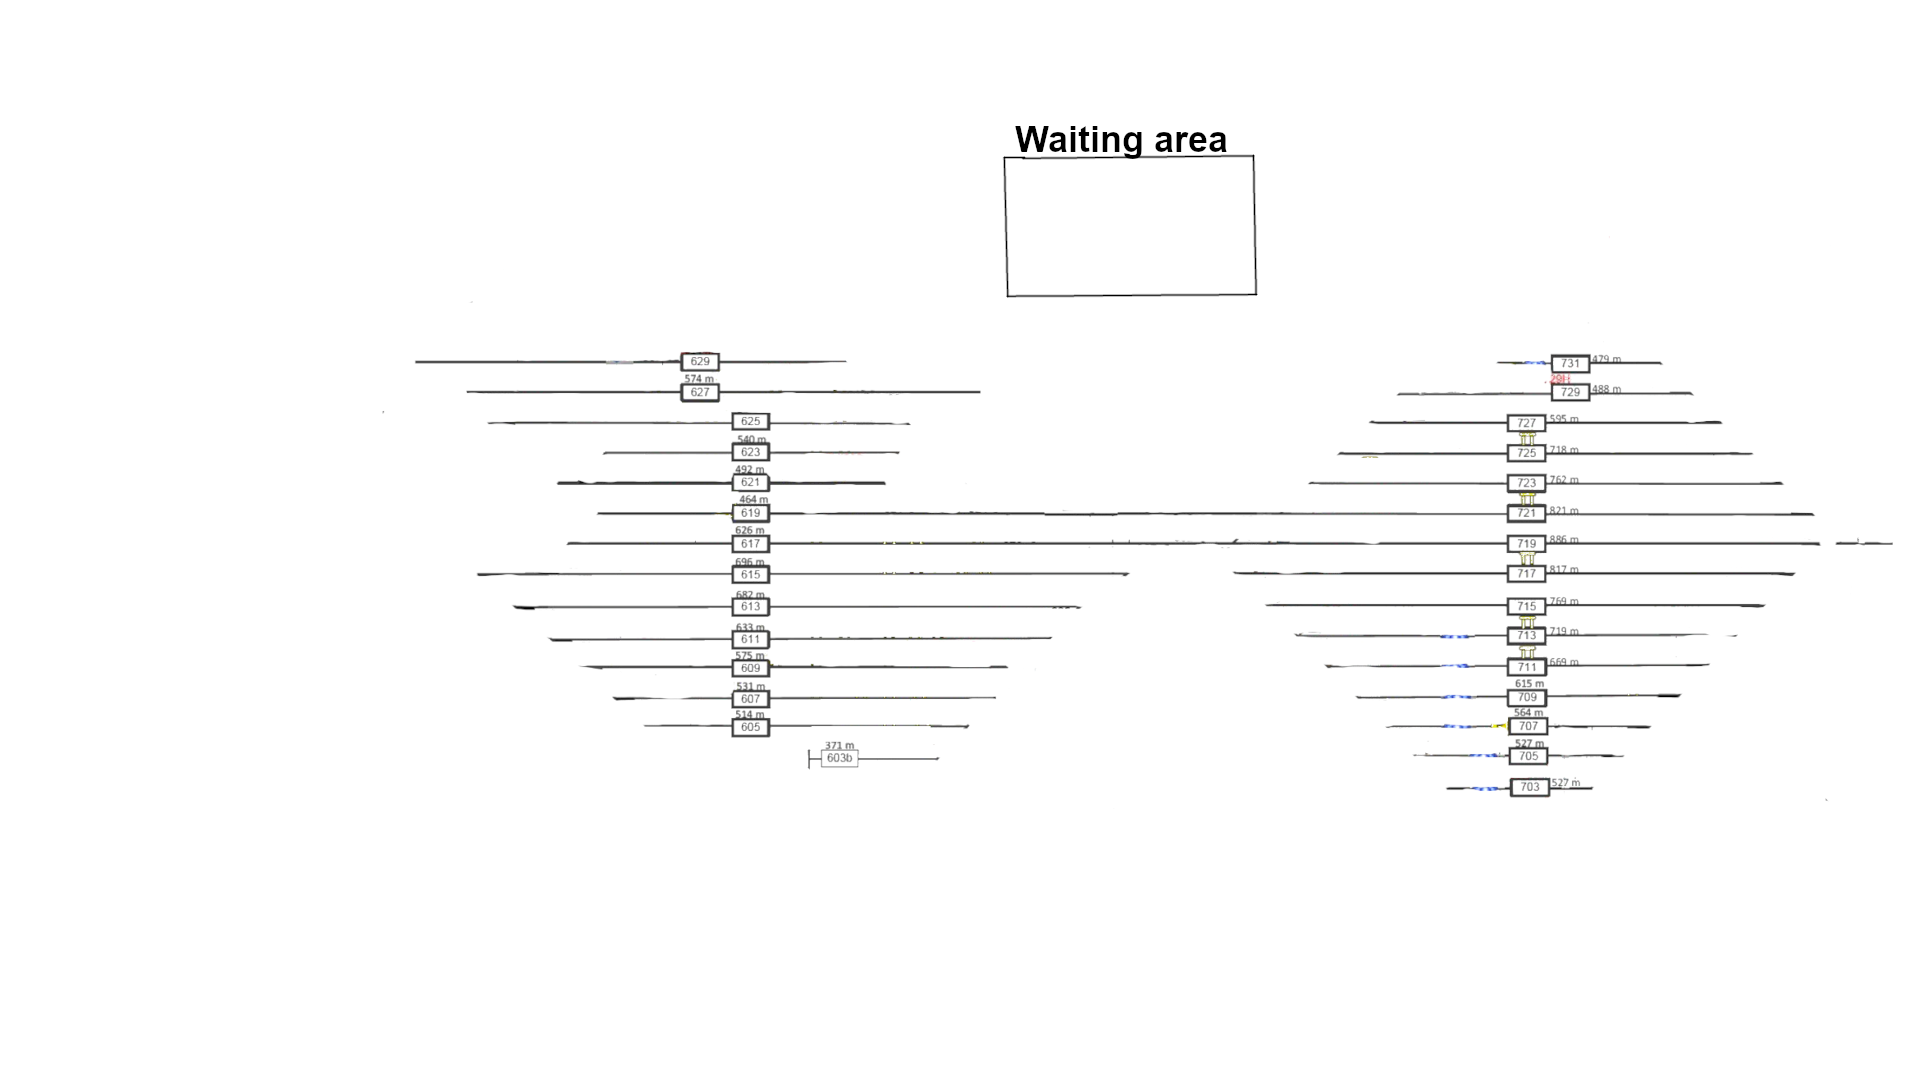
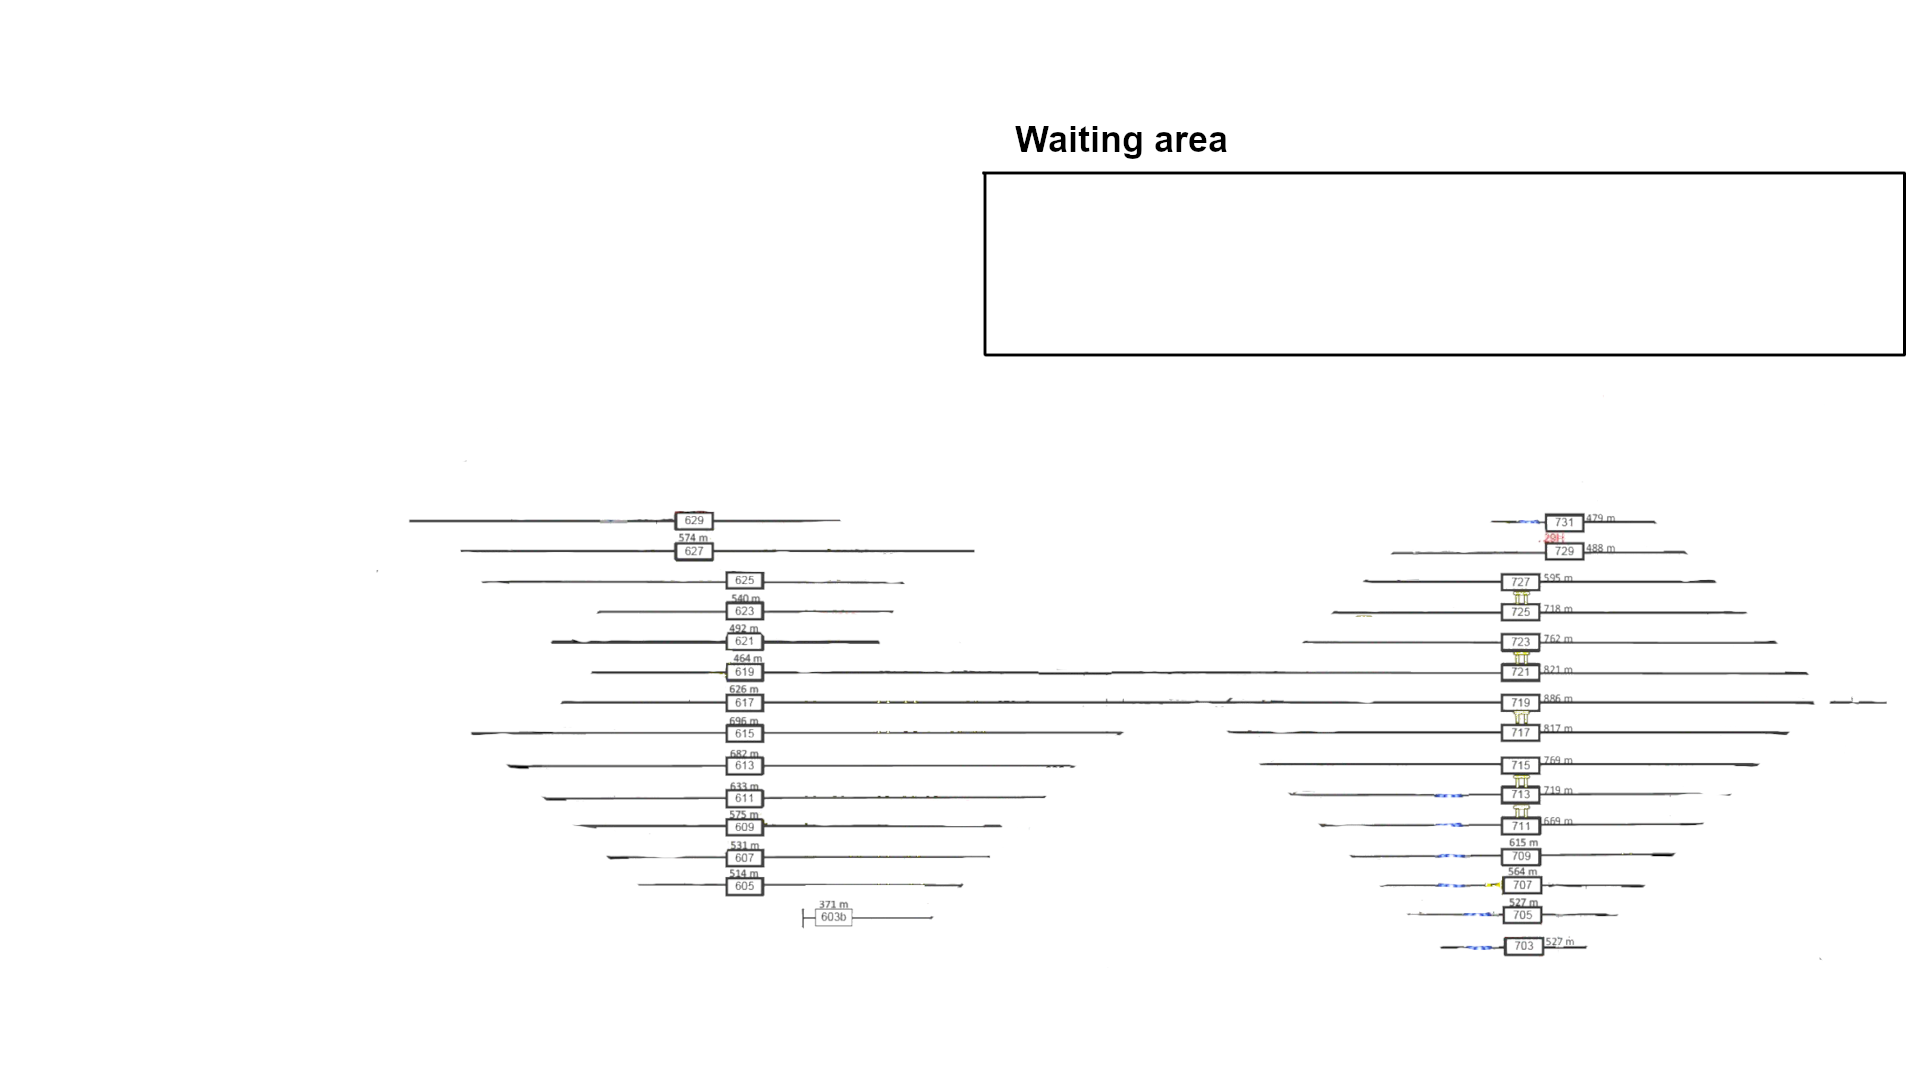
vis4

diff --git a/Output/SimulationVisualizer.html b/Output/SimulationVisualizer.html
@@ -142,6 +142,7 @@
             display: none;
             width: 100%;
             height: calc(100vh - 8px - 70px);
+            position: relative;
             background-image: url('vis_background_v1.png');
             background-size: cover;
             background-position: center;
@@ -150,6 +151,43 @@
 
             #main-content.visible {
                 display: block;
+            }
+
+        /* Worker Icons Overlay */
+        #worker-grid {
+            position: absolute;
+            top: 60px;
+            left: 1010px;
+            display: flex;
+            flex-wrap: wrap;
+            gap: 10px;
+            max-width: 400px;
+        }
+
+        .worker-icon {
+            display: flex;
+            flex-direction: column;
+            align-items: center;
+            gap: 4px;
+        }
+
+            .worker-icon img {
+                width: 40px;
+                height: 40px;
+                object-fit: contain;
+                filter: drop-shadow(1px 1px 2px rgba(0,0,0,0.5));
+            }
+
+            .worker-icon span {
+                font-size: 9px;
+                color: white;
+                text-shadow: 1px 1px 2px black;
+                font-weight: 600;
+                text-align: center;
+                max-width: 50px;
+                overflow: hidden;
+                text-overflow: ellipsis;
+                white-space: nowrap;
             }
     </style>
 </head>
@@ -177,8 +215,10 @@
         <div id="sim-time">09:00:00</div>
     </div>
 
-    <!-- Main Content: background image shown after CSV is loaded -->
-    <div id="main-content"></div>
+    <!-- Main Content: background image + worker icons overlay -->
+    <div id="main-content">
+        <div id="worker-grid"></div>
+    </div>
 
     <script>
         let events = [];
@@ -190,6 +230,7 @@
         let pausedSimTime = 0;
         let simStartTime = null;
         let simEndTime = null;
+        let workers = []; // { id, name, speed }
 
         function loadCSV(event) {
             const file = event.target.files[0];
@@ -198,11 +239,14 @@
             const reader = new FileReader();
             reader.onload = function (e) {
                 const content = e.target.result;
+                parseMeta(content);
                 parseCSV(content);
 
                 document.getElementById('file-upload').classList.add('loaded');
                 document.getElementById('file-label').textContent = `✅ Loaded: ${file.name} (${events.length} events)`;
                 document.getElementById('main-content').classList.add('visible');
+
+                renderWorkerGrid();
 
                 if (events.length > 0) {
                     document.getElementById('sim-time').textContent = formatTimeOnly(simStartTime);
@@ -211,11 +255,52 @@
             reader.readAsText(file);
         }
 
+        function parseMeta(content) {
+            workers = [];
+            const lines = content.trim().split('\n');
+            for (const line of lines) {
+                const trimmed = line.trim();
+                if (trimmed === '#ENDMETA') break;
+                const values = trimmed.split(';').map(v => v.trim());
+                if (values[0] === '#WORKER') {
+                    workers.push({
+                        id: values[1],
+                        name: values[2],
+                        speed: values[3]
+                    });
+                }
+            }
+        }
+
+        function renderWorkerGrid() {
+            const grid = document.getElementById('worker-grid');
+            grid.innerHTML = '';
+            for (const worker of workers) {
+                const div = document.createElement('div');
+                div.className = 'worker-icon';
+                div.innerHTML = `
+                            <img src="worker_icon.png" alt="${worker.name}" title="${worker.name} (${worker.id})">
+                            <span>${worker.name}</span>
+                        `;
+                grid.appendChild(div);
+            }
+        }
+
         function parseCSV(content) {
             const lines = content.trim().split('\n');
             events = [];
 
-            for (let i = 1; i < lines.length; i++) {
+            // Skip meta lines
+            let dataStart = 0;
+            for (let i = 0; i < lines.length; i++) {
+                if (lines[i].trim() === '#ENDMETA') {
+                    dataStart = i + 1;
+                    break;
+                }
+            }
+
+            // Skip header row after meta
+            for (let i = dataStart + 1; i < lines.length; i++) {
                 const values = lines[i].split(';').map(v => v.trim());
                 if (values.length < 3) continue;
 

diff --git a/Output/SimulationLogger.cs b/Output/SimulationLogger.cs
@@ -1,5 +1,8 @@
 using System;
 using System.IO;
+using System.Linq;
+using System.Globalization;
+using WienerNeustadtSimulation.Models;
 
 namespace WienerNeustadtSimulation.Output
 {
@@ -13,6 +16,7 @@ namespace WienerNeustadtSimulation.Output
 
         private StreamWriter _writer;
         private bool _isInitialized = false;
+        private bool _metadataWritten = false;
 
         public void Initialize(string logPath)
         {
@@ -27,6 +31,60 @@ namespace WienerNeustadtSimulation.Output
             _writer.Flush();
 
             _isInitialized = true;
+            _metadataWritten = false;
+        }
+
+        /// <summary>
+        /// Writes static resource metadata into the same CSV as comment-style lines.
+        /// These lines start with '#' so parsers can ignore them easily.
+        ///
+        /// Call once after Initialize() and after loading ResourcePool.json.
+        /// </summary>
+        public void WriteResourceMetadata(
+            ResourcePoolRoot resourcePool,
+            int trainLocoCount = 100,
+            int exitGateCount = 1,
+            double shuntingLocoSpeedMetersPerMinute = 25.0
+        )
+        {
+            if (!_isInitialized) return;
+            if (_metadataWritten) return;
+
+            _writer.WriteLine("#META;ResourcePool;v1");
+            _writer.WriteLine($"#META;GeneratedAtUtc;{DateTime.UtcNow:yyyy-MM-ddTHH:mm:ssZ}");
+
+            // Workers (these fields exist in your WorkerDto usage in ResourceControlUnit)
+            var workers = resourcePool?.Workers ?? Enumerable.Empty<WorkerDto>();
+            foreach (var w in workers.Where(x => !string.IsNullOrWhiteSpace(x.Id)))
+            {
+                var id = w.Id!.Trim();
+                var name = (w.Name ?? "").Replace(";", ",").Trim();
+                var speed = w.MovementSpeedMetersPerMinute ?? 0;
+
+                // #WORKER;<Id>;<Name>;<SpeedMetersPerMinute>
+                _writer.WriteLine($"#WORKER;{id};{name};{speed.ToString(CultureInfo.InvariantCulture)}");
+            }
+
+            // Shunting locomotives:
+            // Your ShuntingLocomotiveDto doesn't have Name/MovementSpeedMetersPerMinute.
+            // We log Id and a fixed speed (matches ResourceControlUnit constant behavior).
+            var locos = resourcePool?.ShuntingLocomotives ?? Enumerable.Empty<ShuntingLocomotiveDto>();
+            foreach (var l in locos.Where(x => !string.IsNullOrWhiteSpace(x.Id)))
+            {
+                var id = l.Id!.Trim();
+
+                // #SHUNTLOCO;<Id>;<DisplayName>;<SpeedMetersPerMinute>
+                _writer.WriteLine($"#SHUNTLOCO;{id};{id};{shuntingLocoSpeedMetersPerMinute.ToString(CultureInfo.InvariantCulture)}");
+            }
+
+            // Global capacities / synthetic resources used by sim
+            _writer.WriteLine($"#CAPACITY;TrainLocomotives;{trainLocoCount}");
+            _writer.WriteLine($"#CAPACITY;ExitGate;{exitGateCount}");
+
+            _writer.WriteLine("#ENDMETA");
+            _writer.Flush();
+
+            _metadataWritten = true;
         }
 
         public void LogTrainEvent(string trainId, string eventName, DateTime simTime, string details = "")
@@ -69,7 +127,9 @@ namespace WienerNeustadtSimulation.Output
                 _writer.Dispose();
                 _writer = null;
             }
+
             _isInitialized = false;
+            _metadataWritten = false;
         }
     }
 }

diff --git a/Program.cs b/Program.cs
@@ -72,6 +72,13 @@ namespace WienerNeustadtSimulation
 
                 Console.WriteLine($"✓ Loaded {resourcePool.Workers?.Count ?? 0} workers");
                 Console.WriteLine($"✓ Loaded {resourcePool.ShuntingLocomotives?.Count ?? 0} shunting locomotives\n");
+                // NEW: write static resource metadata into the CSV (for the visualizer)
+                SimulationLogger.Instance.WriteResourceMetadata(
+                    resourcePool,
+                    trainLocoCount: 100,
+                    exitGateCount: 1,
+                    shuntingLocoSpeedMetersPerMinute: 25.0
+                );
 
                 // Create simulation engine
                 var engine = new SimulationEngine();
